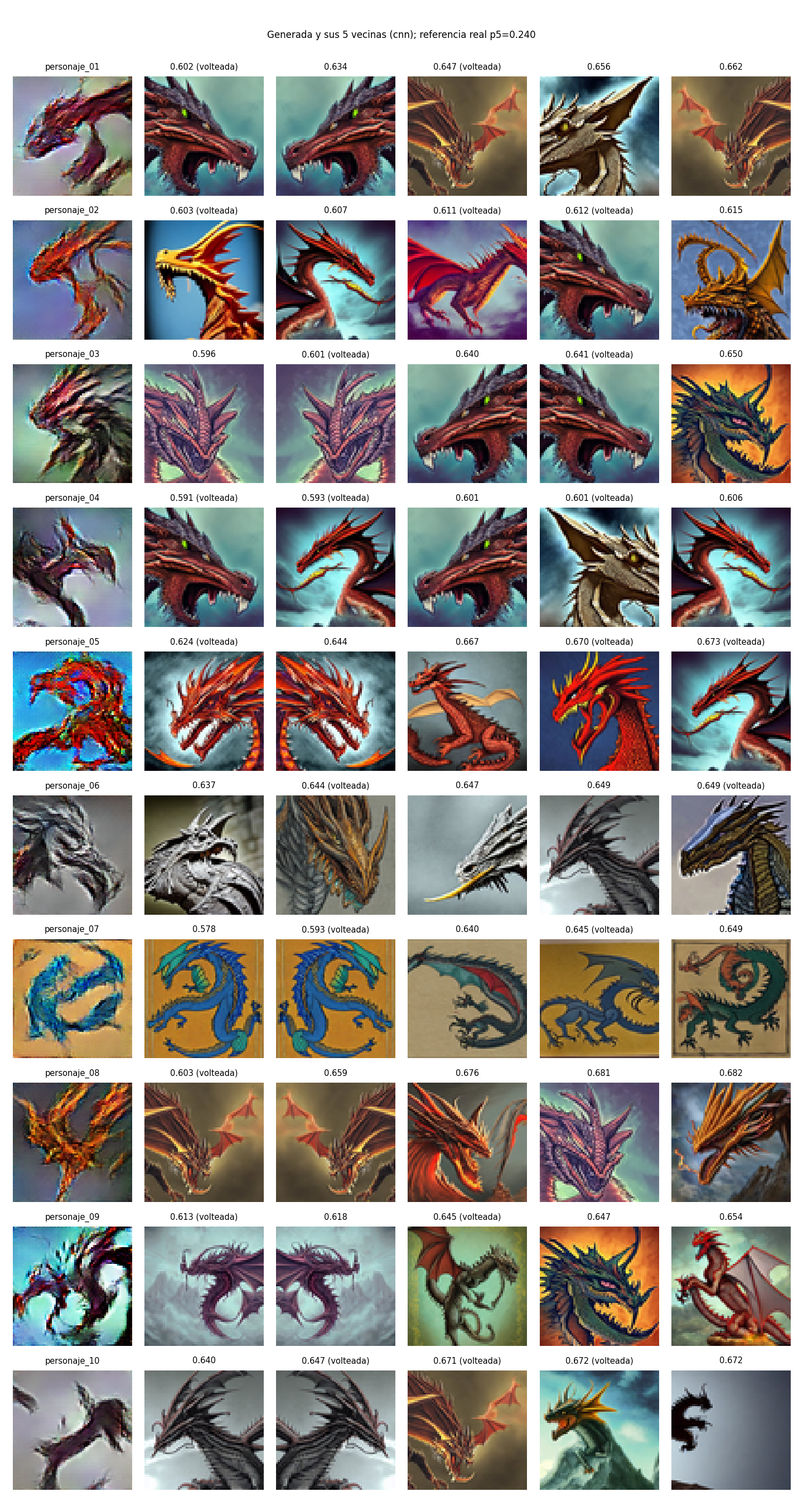
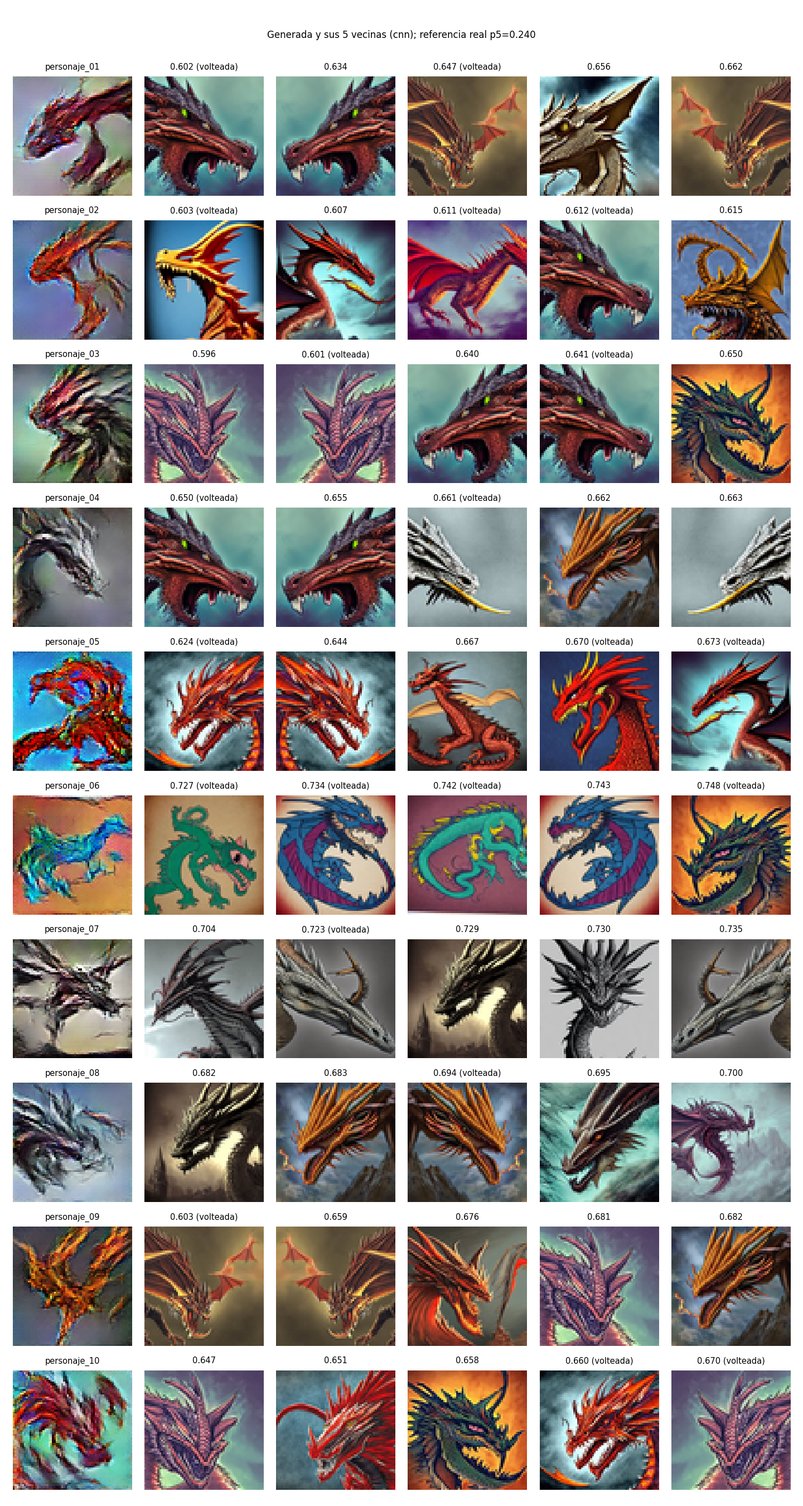
Recalcular vecinos e interpretar el caso más difícil de defender

diff --git a/docs/vecinos_cercanos.md b/docs/vecinos_cercanos.md
@@ -95,13 +95,13 @@ percentil 5 entre imágenes reales):
 | 01 Fauce Carmesí | 0,602 | 0,441 | 0,865 | No |
 | 02 Ámbar Errante | 0,603 | 0,383 | 0,915 | No |
 | 03 Cresta Sombría | 0,596 | 0,449 | 0,929 | No |
-| 04 Vela Nocturna | 0,591 | 0,462 | 0,951 | No |
+| 04 Bruma Gris | 0,650 | 0,354 | 0,995 | No |
 | 05 Brasa Celeste | 0,624 | 0,628 | 0,943 | No |
-| 06 Bruma Gris | 0,637 | 0,406 | 1,010 | No |
-| 07 Marea Azul | **0,578** | 0,478 | 1,017 | No |
-| 08 Llama Dorada | 0,603 | 0,324 | 1,065 | No |
-| 09 Garra Sombría | 0,613 | 0,634 | 1,108 | No |
-| 10 Paso Viejo | 0,640 | 0,436 | 1,026 | No |
+| 06 Marea Azul | 0,727 | 0,458 | 0,907 | No |
+| 07 Garra Sombría | 0,704 | 0,497 | 1,017 | No |
+| 08 Vela Nocturna | 0,682 | 0,415 | **0,771** | No, pero al límite en `forma` |
+| 09 Llama Dorada | 0,603 | 0,324 | 1,065 | No |
+| 10 Ala Escarlata | 0,647 | 0,484 | 0,938 | No |
 
 ### Interpretación
 
@@ -109,30 +109,31 @@ percentil 5 entre imágenes reales):
   tres métricas da alerta y en las figuras ninguna silueta coincide con la de
   su vecina.
 - **Los vecinos comparten color y fondo con el personaje.** Rojo sobre celeste
-  para 01, 04 y 05; gris para 06 y 10; azul sobre ocre para 07. El generador
-  aprendió las combinaciones de color del dataset.
+  para 01, 05 y 10; gris para 04 y 07; azules sobre fondos cálidos para 06.
+  El generador aprendió las combinaciones de color del dataset.
 - **Un mismo dragón real aparece como vecino de varios personajes** (la cabeza
-  roja sobre fondo verde azulado, en 01, 02, 03 y 04). Indica que esa zona del
-  dataset pesa mucho en lo que el modelo genera.
+  roja sobre fondo verde azulado, en 01, 02, 03 y 04). Esa zona del dataset
+  pesa mucho en lo que el modelo genera.
 - **Estar lejos no es solo buena noticia.** En `cnn` los personajes están a
-  0,58–0,64 de su vecina, el doble de la mediana entre reales (0,302). No son
+  0,60–0,73 de su vecina, el doble de la mediana entre reales (0,302). No son
   copias, pero tampoco tienen el detalle de un dragón del dataset.
 
 ### El personaje más difícil de defender
 
-**07, Marea Azul.** Es el más cercano a una imagen real según ResNet-18
-(0,578). Su vecina es un dragón azul enroscado sobre fondo ocre: la misma
-paleta, el mismo fondo y una composición circular parecida. La figura no es la
-misma —no coinciden cabeza, patas ni contorno, y en `forma` queda por encima
-de la mediana entre reales—, pero la idea visual sí viene de esa imagen.
+**08, Vela Nocturna.** En `forma` queda a 0,771 de su vecina, prácticamente
+en el umbral de alerta (0,768). La vecina es una cabeza de dragón oscura de
+perfil, con la boca abierta, y volteada apunta hacia el mismo lado que la
+nuestra: misma pose y misma distribución de luz y sombra. No es una copia —en
+`cnn` y `pixel` queda lejos, y cambian la cresta, el color y el fondo—, pero
+la silueta general sí coincide.
 
-Este caso muestra qué aprendió la GAN: primero lo más fácil y repetido del
-dataset —fondos lisos, paletas y trazos de escamas—, y solo parcialmente la
-estructura de un dragón. La novedad de nuestros personajes está en la forma;
-el color y el fondo están tomados del dataset.
+Este caso muestra qué aprendió la GAN. Las cabezas de perfil son el encuadre
+más repetido del dataset y es justo donde el modelo produce sus dragones más
+claros: 4 de nuestros 10 personajes son cabezas de perfil. La novedad está en
+los detalles y el color; la composición la tomó de lo más frecuente en los datos.
 
-### Primera ronda
+### Rondas anteriores
 
-Con la galería inicial (10 de 200 candidatos) hubo dos alertas en `pixel` por
+Con la primera galería (10 de 200 candidatos) hubo dos alertas en `pixel` por
 fondos pardos casi idénticos a una imagen real. Esa galería se reemplazó al
 ampliar a 2 000 candidatos; ver `docs/evaluacion_candidatos.md`.
